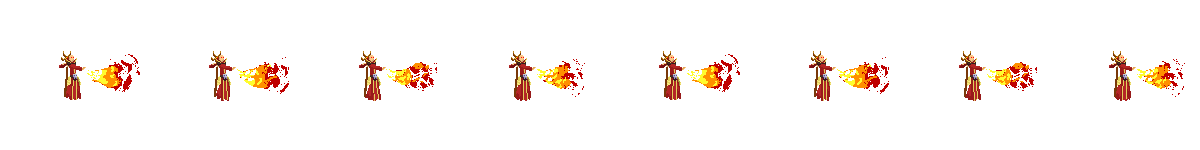
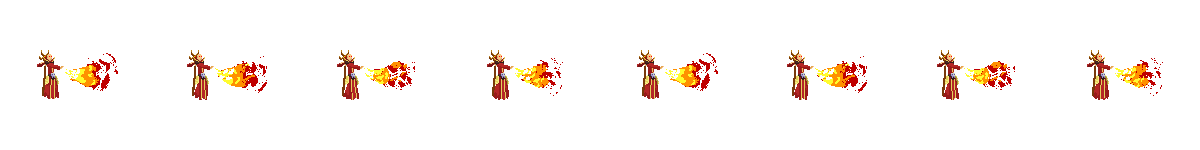
added sprite direction

diff --git a/src/main.ts b/src/main.ts
@@ -3,95 +3,112 @@ import { Player } from "./Player";
 import { Game } from "./Game";
 import { Picture } from "./Picture";
 
-const canvas = document.querySelector("canvas")!;
-const ctx = canvas?.getContext("2d")!;
+//preload background
+const img = new Image();
+img.src = "/bg.png";
 
-canvas.width = 1024;
-canvas.height = 576;
+img.onload = () => {
+  const canvas = document.querySelector("canvas")!;
+  const ctx = canvas?.getContext("2d")!;
 
-ctx.fillRect(0, 0, canvas.width, canvas.height);
+  canvas.width = 1024;
+  canvas.height = 576;
 
-const player1 = new Player(
-  canvas,
-  {
-    imageSrc: "/player1/Idle.png",
-    offset: { x: -300, y: -260 },
-    chunks: 8,
-    animate: true,
-    animateEvery: 15,
-    states: {
-      idle: {
-        src: "/player1/Idle.png",
-        start: 0,
-        count: 8,
-      },
-      move: {
-        src: "/player1/Run.png",
-        start: 0,
-        count: 8,
-      },
-      attack: {
-        src: "/player1/Attack1.png",
-        start: 0,
-        count: 8,
-      },
-      hit: {
-        src: "/public/player1/hit.png",
-        start: 0,
-        count: 3,
+  ctx.fillRect(0, 0, canvas.width, canvas.height);
+
+  const player1 = new Player(
+    canvas,
+    {
+      imageSrc: "/player1/Idle.png",
+      offset: { x: -300, y: -260 },
+      chunks: 8,
+      animate: true,
+      animateEvery: 15,
+      states: {
+        idle: {
+          src: "/player1/Idle.png",
+          rtlSrc: "/player1/Idle-rtl.png",
+          start: 0,
+          count: 8,
+        },
+        move: {
+          src: "/player1/Run.png",
+          rtlSrc: "/player1/Run-rtl.png",
+          start: 0,
+          count: 8,
+        },
+        attack: {
+          src: "/player1/Attack1.png",
+          rtlSrc: "/player1/Attack1-rtl.png",
+          start: 0,
+          count: 8,
+        },
+        hit: {
+          src: "/player1/hit.png",
+          rtlSrc: "/player1/hit-rtl.png",
+          start: 0,
+          count: 3,
+        },
       },
     },
-  },
-  "wasd",
-  { x: 100, y: 0 }
-);
-const player2 = new Player(
-  canvas,
-  {
-    imageSrc: "/player2/Idle.png",
-    offset: { x: -150, y: -100 },
-    chunks: 8,
-    animate: true,
-    animateEvery: 15,
-    states: {
-      idle: {
-        src: "/player2/Idle.png",
-        start: 0,
-        count: 8,
-      },
-      move: {
-        src: "/player2/Run.png",
-        start: 0,
-        count: 8,
-      },
-      attack: {
-        src: "/player2/Attack.png",
-        start: 0,
-        count: 8,
-      },
-      hit: {
-        src: "/player2/hit.png",
-        start: 0,
-        count: 4,
+    "wasd",
+    { x: 100, y: 0 }
+  );
+  const player2 = new Player(
+    canvas,
+    {
+      imageSrc: "/player2/Idle.png",
+      offset: { x: -150, y: -100 },
+      chunks: 8,
+      animate: true,
+      animateEvery: 15,
+      states: {
+        idle: {
+          src: "/player2/Idle.png",
+          rtlSrc: "/player2/Idle-rtl.png",
+          start: 0,
+          count: 8,
+        },
+        move: {
+          src: "/player2/Run.png",
+          rtlSrc: "/player2/Run-rtl.png",
+          start: 0,
+          count: 8,
+        },
+        attack: {
+          src: "/player2/Attack.png",
+          rtlSrc: "/player2/Attack-rtl.png",
+          start: 0,
+          count: 8,
+          offset: {
+            x: 90,
+          },
+        },
+        hit: {
+          src: "/player2/hit.png",
+          rtlSrc: "/player2/hit-rtl.png",
+          start: 0,
+          count: 4,
+        },
       },
     },
-  },
-  "arrows",
-  { x: canvas.width - Player.initailWidth - 100, y: 0 },
-  -1
-);
+    "arrows",
+    { x: canvas.width - Player.initailWidth - 100, y: 0 },
+    -1
+  );
 
-const game = new Game(ctx, player1, player2);
-const backgroundImage = new Picture("/bg.png");
-const shopImage = new Picture("/shop.png", undefined, 2);
+  const game = new Game(ctx, player1, player2);
+  const backgroundImage = new Picture("/bg.png");
+  const shopImage = new Picture("/shop.png", undefined, 2);
 
-function animate() {
-  ctx.clearRect(0, 0, canvas.width, canvas.height);
-  backgroundImage.draw(ctx);
-  shopImage.draw(ctx, { x: 720, y: 298 }, { chunks: 6, animate: true });
-  game.init();
+  function animate() {
+    ctx.clearRect(0, 0, canvas.width, canvas.height);
+    backgroundImage.draw(ctx);
+    shopImage.draw(ctx, { x: 720, y: 298 }, { chunks: 6, animate: true });
+    game.init();
 
-  requestAnimationFrame(animate);
-}
+    requestAnimationFrame(animate);
+  }
 
-animate();
+  animate();
+};

diff --git a/src/Player.ts b/src/Player.ts
@@ -1,32 +1,23 @@
 import { Game } from "./Game";
 import { Picture } from "./Picture";
 
+interface State {
+  src: string;
+  rtlSrc: string;
+  start: number;
+  count: number;
+  offset?: {
+    x?: number;
+    y?: number;
+  };
+}
+
 interface IStates {
-  idle?: {
-    src: string;
-    start: number;
-    count: number;
-  };
-  move?: {
-    src: string;
-    start: number;
-    count: number;
-  };
-  attack?: {
-    src: string;
-    start: number;
-    count: number;
-  };
-  hit?: {
-    src: string;
-    start: number;
-    count: number;
-  };
-  dead?: {
-    src: string;
-    start: number;
-    count: number;
-  };
+  idle?: State;
+  move?: State;
+  attack?: State;
+  hit?: State;
+  dead?: State;
 }
 
 export class Player {
@@ -44,8 +35,8 @@ export class Player {
   private attackBox = {
     x: 0,
     y: 0,
-    width: 100,
-    height: 20,
+    width: 150,
+    height: 0,
     active: false,
   };
   private gravity = 0.6;
@@ -143,24 +134,25 @@ export class Player {
 
     if ("imageSrc" in this.playerShape) {
       this.animate();
-    } else if ("color" in this.playerShape) {
+    }
+    if ("color" in this.playerShape) {
       this.canvasContext.fillStyle = this.playerShape.color!;
       this.canvasContext.fillRect(this.position.x, this.position.y, this.width, this.height);
     }
 
-    // fill player eye
     if (!this.isDead) {
-      const hitBox = this.getHitBox();
-      this.canvasContext.fillStyle = "green";
-      this.canvasContext.beginPath();
-      let eyePosition = (hitBox.left + hitBox.right) / 2;
-      if (this.direction == 1) {
-        eyePosition = hitBox.right - 10;
-      } else if (this.direction == -1) {
-        eyePosition = hitBox.left + 10;
-      }
-      this.canvasContext.arc(eyePosition, hitBox.top + 10, 10, 0, 2 * Math.PI);
-      this.canvasContext.fill();
+      // const hitBox = this.getHitBox();
+      // this.canvasContext.fillStyle = "green";
+      // this.canvasContext.beginPath();
+      // fill player eye
+      // let eyePosition = (hitBox.left + hitBox.right) / 2;
+      // if (this.direction == 1) {
+      //   eyePosition = hitBox.right - 10;
+      // } else if (this.direction == -1) {
+      //   eyePosition = hitBox.left + 10;
+      // }
+      // this.canvasContext.arc(eyePosition, hitBox.top + 10, 10, 0, 2 * Math.PI);
+      // this.canvasContext.fill();
     }
 
     // fill player attack box
@@ -210,11 +202,13 @@ export class Player {
     const state = this.states[this.currentState];
     if (!this.playerShape.animate || !state) return;
     if (this.playerPicture?.image) {
-      this.playerPicture.updateSrc(state.src);
+      let src = state.src;
+      if (this.direction == -1) src = state.rtlSrc;
+      this.playerPicture.updateSrc(src);
     }
     this.playerPicture!.draw(
       this.canvasContext,
-      { x: this.position.x + (this.playerShape?.offset?.x || 0), y: this.position.y + (this.playerShape?.offset?.y || 0) },
+      { x: this.position.x + (this.playerShape?.offset?.x || 0) + (state.offset?.x || 0) * this.direction, y: this.position.y + (this.playerShape?.offset?.y || 0) },
       {
         ...this.playerShape,
         chunks: state.count,

diff --git a/src/Game.ts b/src/Game.ts
@@ -3,26 +3,26 @@ import { Player } from "./Player";
 export class Game {
   static floorY = 0;
   static floorHeight = 20;
-
-  time = 10;
+  interval;
+  time = 60;
   constructor(public canvasContext: CanvasRenderingContext2D, public player1: Player, public player2: Player) {
     // console.log(this.player1);
     Game.floorY = this.canvasContext.canvas.height - Game.floorHeight;
-    const interval = setInterval(() => {
-      // this.time -= 1;
-      if (this.time == 0) clearInterval(interval);
+    this.interval = setInterval(() => {
+      this.time -= 1;
     }, 1000);
   }
 
   init() {
     this.drawTimer();
     this.drawHealthBars();
-    if (this.time > 0) {
+    if (this.time > 0 && !this.player1.isDead && !this.player2.isDead) {
       this.drawHealthBars();
       this.checkHits();
       this.player1.update();
       this.player2.update();
     } else {
+      clearInterval(this.interval);
       let status = "It's a tie";
       if (this.player1.health > this.player2.health) status = "Player 1 Wins!";
       else if (this.player2.health > this.player1.health) status = "Player 2 Wins!";
@@ -63,10 +63,10 @@ export class Game {
     const victimHitBox = SecondayPlayer.getHitBox();
     if (!mainPlayer.getAttackBox().active) return;
     if (mainAttackBox.rayY >= victimHitBox.top && mainAttackBox.rayY <= victimHitBox.bottom) {
-      if (mainAttackBox.right >= victimHitBox.left && mainAttackBox.right <= victimHitBox.right) {
+      if (mainAttackBox.right >= victimHitBox.left && mainAttackBox.right - 50 <= victimHitBox.right) {
         SecondayPlayer.takeHit(1);
       }
-      if (mainAttackBox.left <= victimHitBox.right && mainAttackBox.left >= victimHitBox.left) {
+      if (mainAttackBox.left <= victimHitBox.right && mainAttackBox.left + 50 >= victimHitBox.left) {
         SecondayPlayer.takeHit(-1);
       }
     }

diff --git a/index.html b/index.html
@@ -10,6 +10,10 @@
     <div>
       <canvas></canvas>
     </div>
+    <div style="background-color: unset; color: white; padding: 2rem">
+      <h4>Player1: Move = WASD | Attack = Space</h4>
+      <h4>Player2: Move = Arrow Keys | Attack = Num0</h4>
+    </div>
     <script type="module" src="/src/main.ts"></script>
   </body>
 </html>
